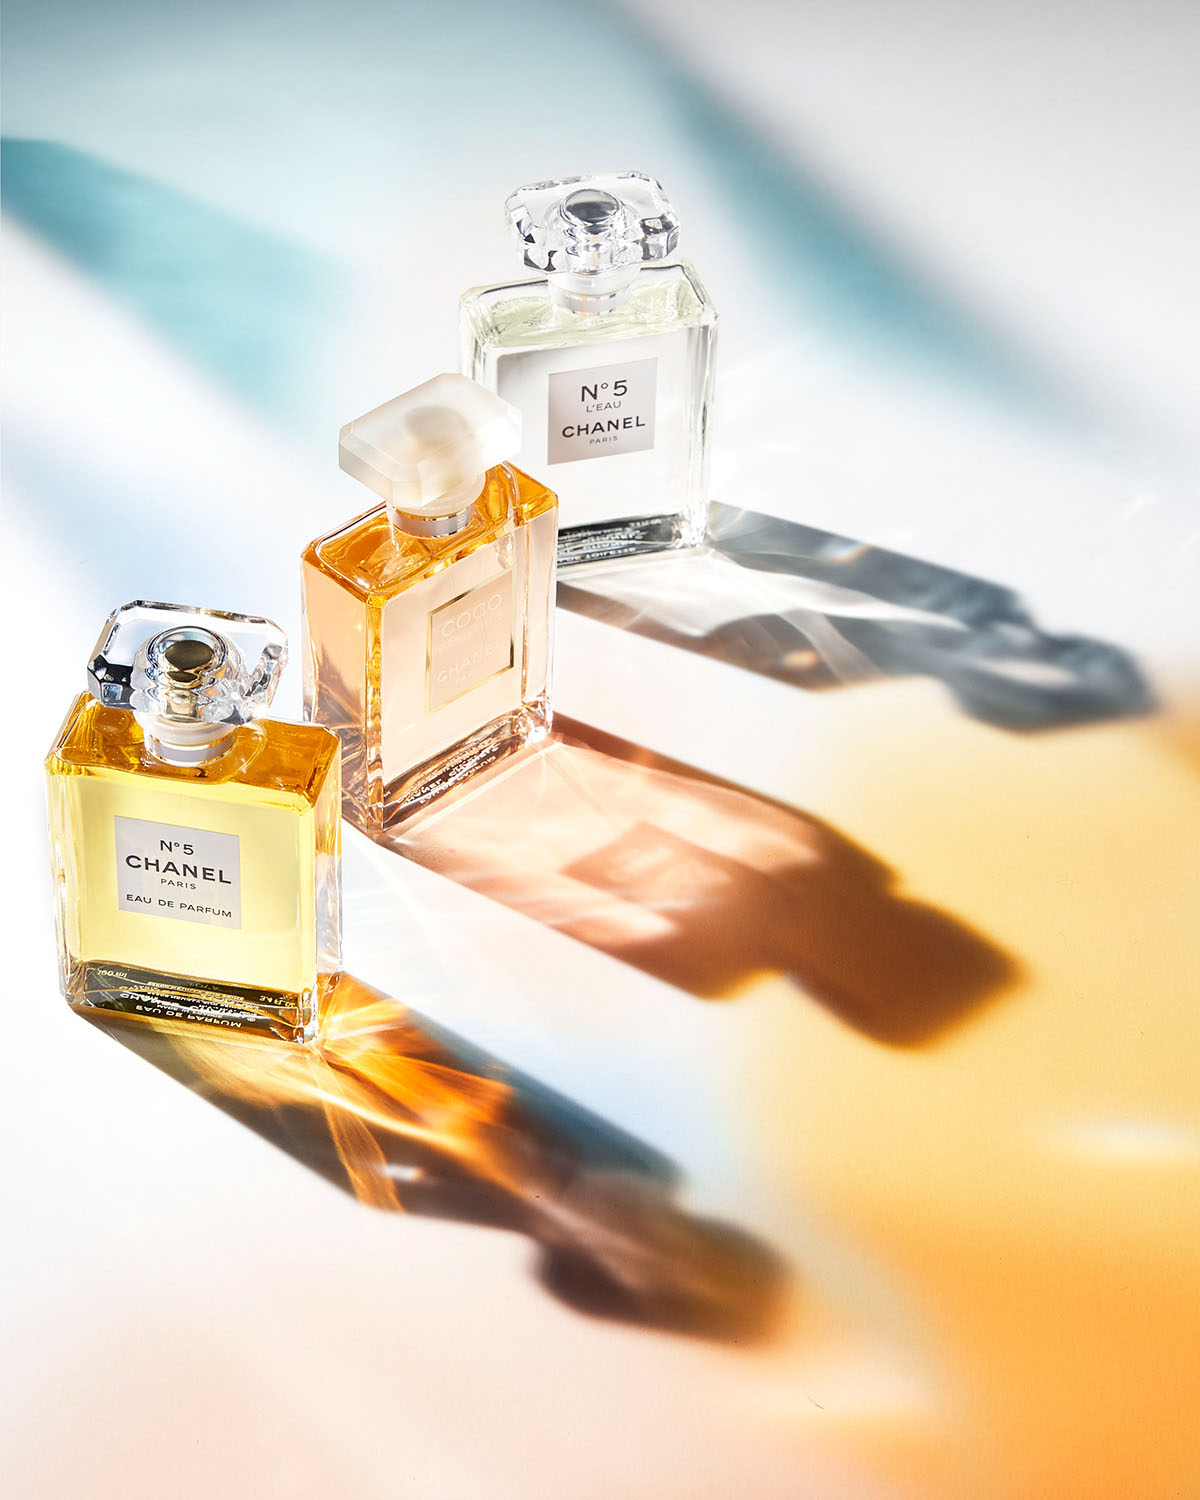
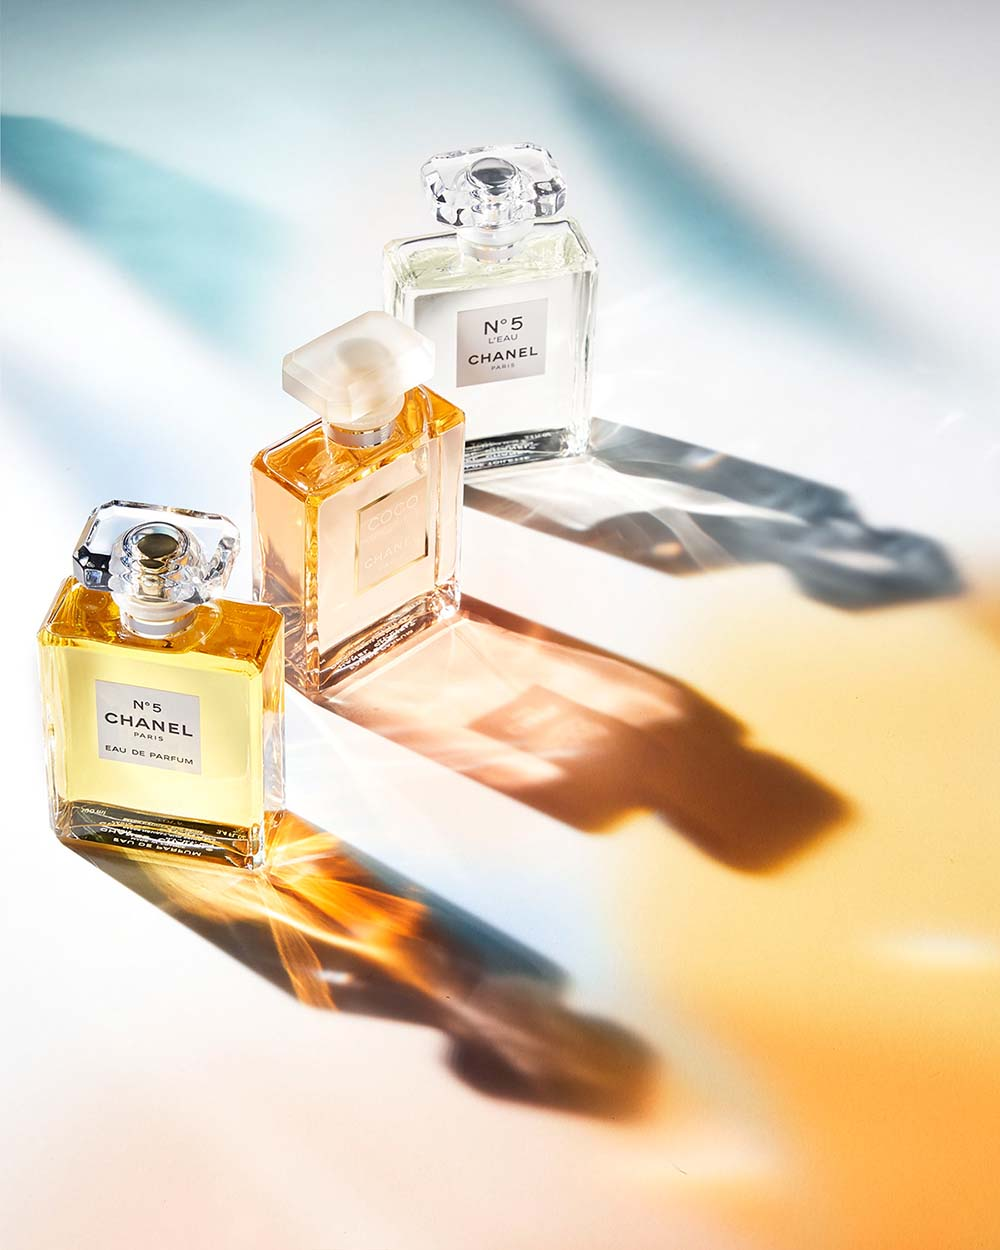
Add files via upload

diff --git a/exercises/using-images/index.html b/exercises/using-images/index.html
@@ -278,9 +278,9 @@
       
       <figure class="compressed-image">
         <!-- your <img> here... -->
-         <img src="images/chanel.JPG" class="perfume" alt="chanel perfumes">
+        <img src="images/chanel.JPG" class="perfume" alt="chanel perfumes">
         <figcaption><!-- ---px wide, --% jpeg compression, --KB --> 
-            1200 px wide, I set the export quality to 6 on Photoshop, 168kb
+            1000 px wide, I set the export quality to 4 on Photoshop, scale 83.33%, 82.7kb
         </figcaption>
       </figure>
         
